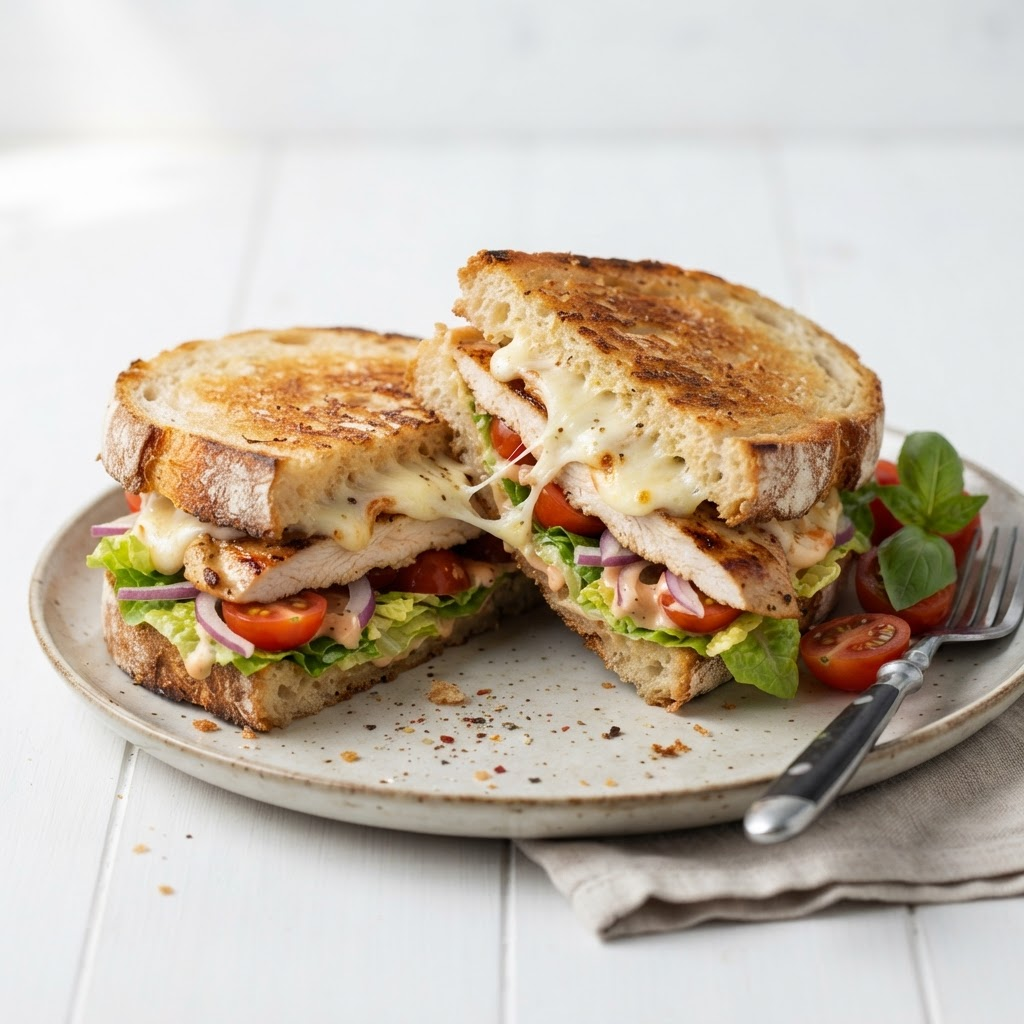
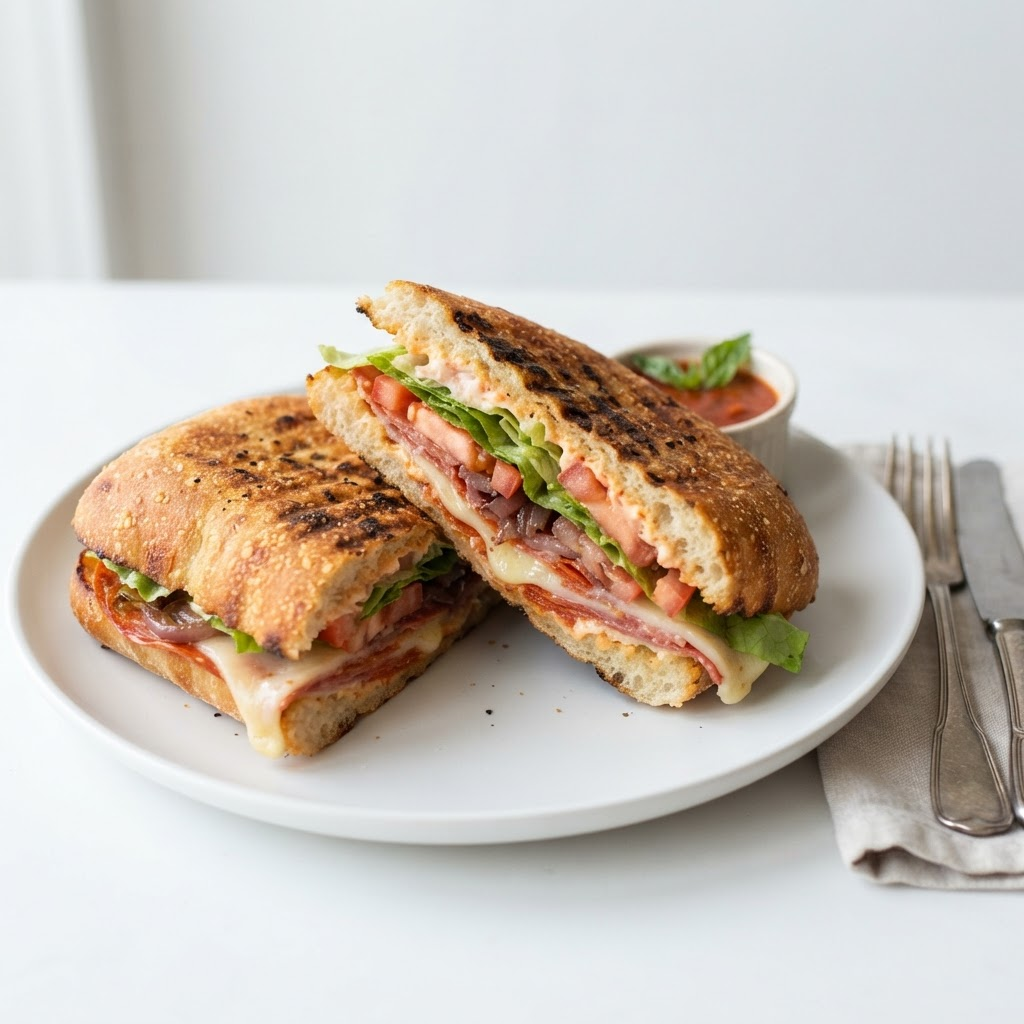
Revert pizza menu to simple text layout and update El Volcano product image

diff --git a/components/full-menu.tsx b/components/full-menu.tsx
@@ -312,17 +312,7 @@ export function FullMenu() {
           {/* Left Column */}
           <div className="space-y-6">
             {pizzasFirstHalf.map((item) => (
-              <motion.div key={item.name} variants={itemVariants} className="group overflow-hidden rounded-lg border border-primary/20 bg-card/50 p-4 transition-all hover:border-primary/40 hover:bg-card">
-                {item.image && (
-                  <div className="relative mb-3 h-40 w-full overflow-hidden rounded-md">
-                    <Image
-                      src={item.image}
-                      alt={item.name}
-                      fill
-                      className="object-cover transition-transform duration-300 group-hover:scale-105"
-                    />
-                  </div>
-                )}
+              <motion.div key={item.name} variants={itemVariants} className="group">
                 <div className="flex items-baseline justify-between gap-3">
                   <h3 className="font-serif text-lg text-foreground transition-colors group-hover:text-primary md:text-xl">
                     {item.name}
@@ -331,7 +321,7 @@ export function FullMenu() {
                     {item.price}
                   </span>
                 </div>
-                <p className="mt-2 text-xs text-muted-foreground leading-relaxed md:text-sm">
+                <p className="mt-1 text-xs text-muted-foreground leading-relaxed md:text-sm">
                   {item.description}
                 </p>
               </motion.div>
@@ -341,17 +331,7 @@ export function FullMenu() {
           {/* Right Column */}
           <div className="space-y-6">
             {pizzasSecondHalf.map((item) => (
-              <motion.div key={item.name} variants={itemVariants} className="group overflow-hidden rounded-lg border border-primary/20 bg-card/50 p-4 transition-all hover:border-primary/40 hover:bg-card">
-                {item.image && (
-                  <div className="relative mb-3 h-40 w-full overflow-hidden rounded-md">
-                    <Image
-                      src={item.image}
-                      alt={item.name}
-                      fill
-                      className="object-cover transition-transform duration-300 group-hover:scale-105"
-                    />
-                  </div>
-                )}
+              <motion.div key={item.name} variants={itemVariants} className="group">
                 <div className="flex items-baseline justify-between gap-3">
                   <h3 className="font-serif text-lg text-foreground transition-colors group-hover:text-primary md:text-xl">
                     {item.name}
@@ -360,7 +340,7 @@ export function FullMenu() {
                     {item.price}
                   </span>
                 </div>
-                <p className="mt-2 text-xs text-muted-foreground leading-relaxed md:text-sm">
+                <p className="mt-1 text-xs text-muted-foreground leading-relaxed md:text-sm">
                   {item.description}
                 </p>
               </motion.div>
